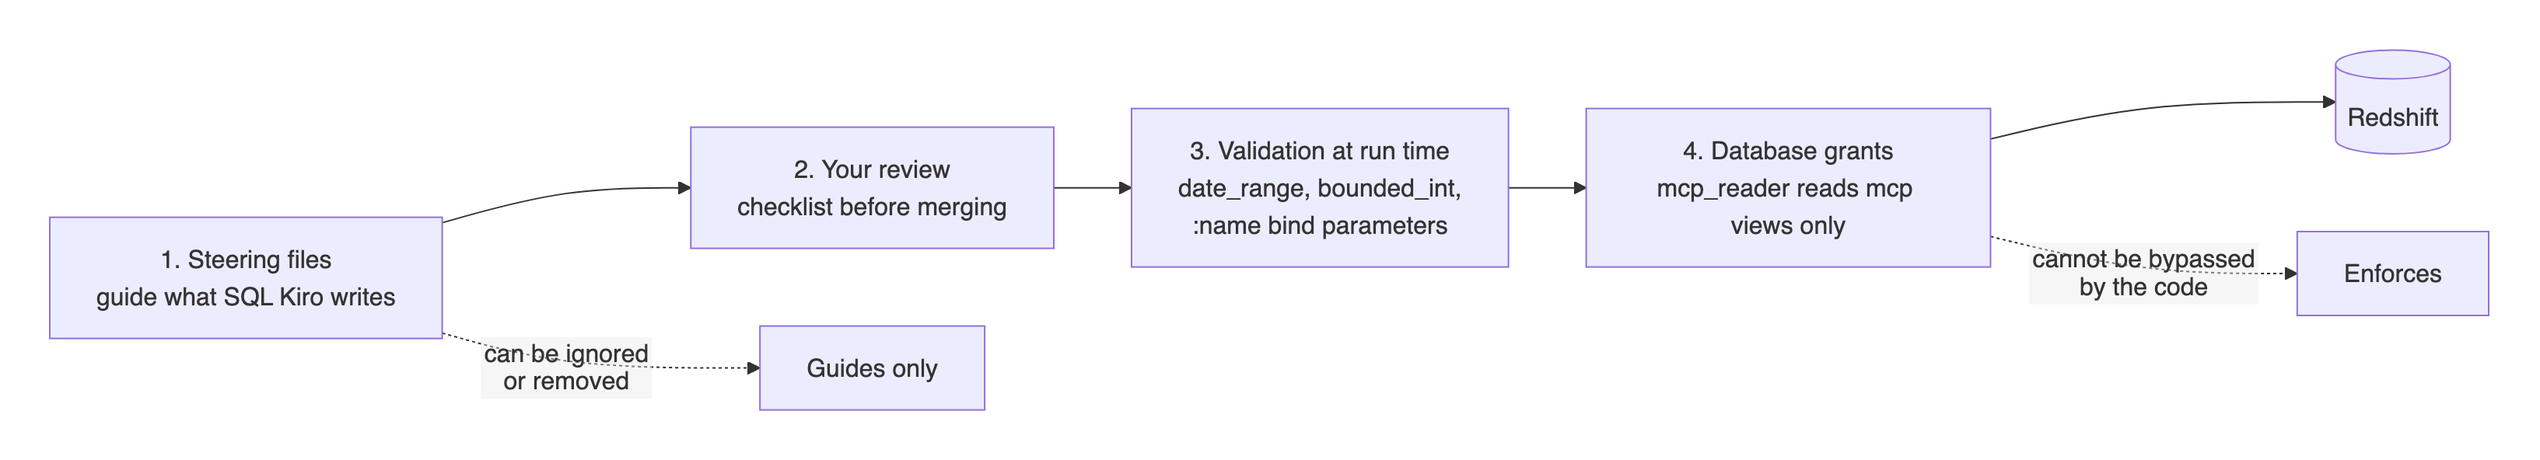
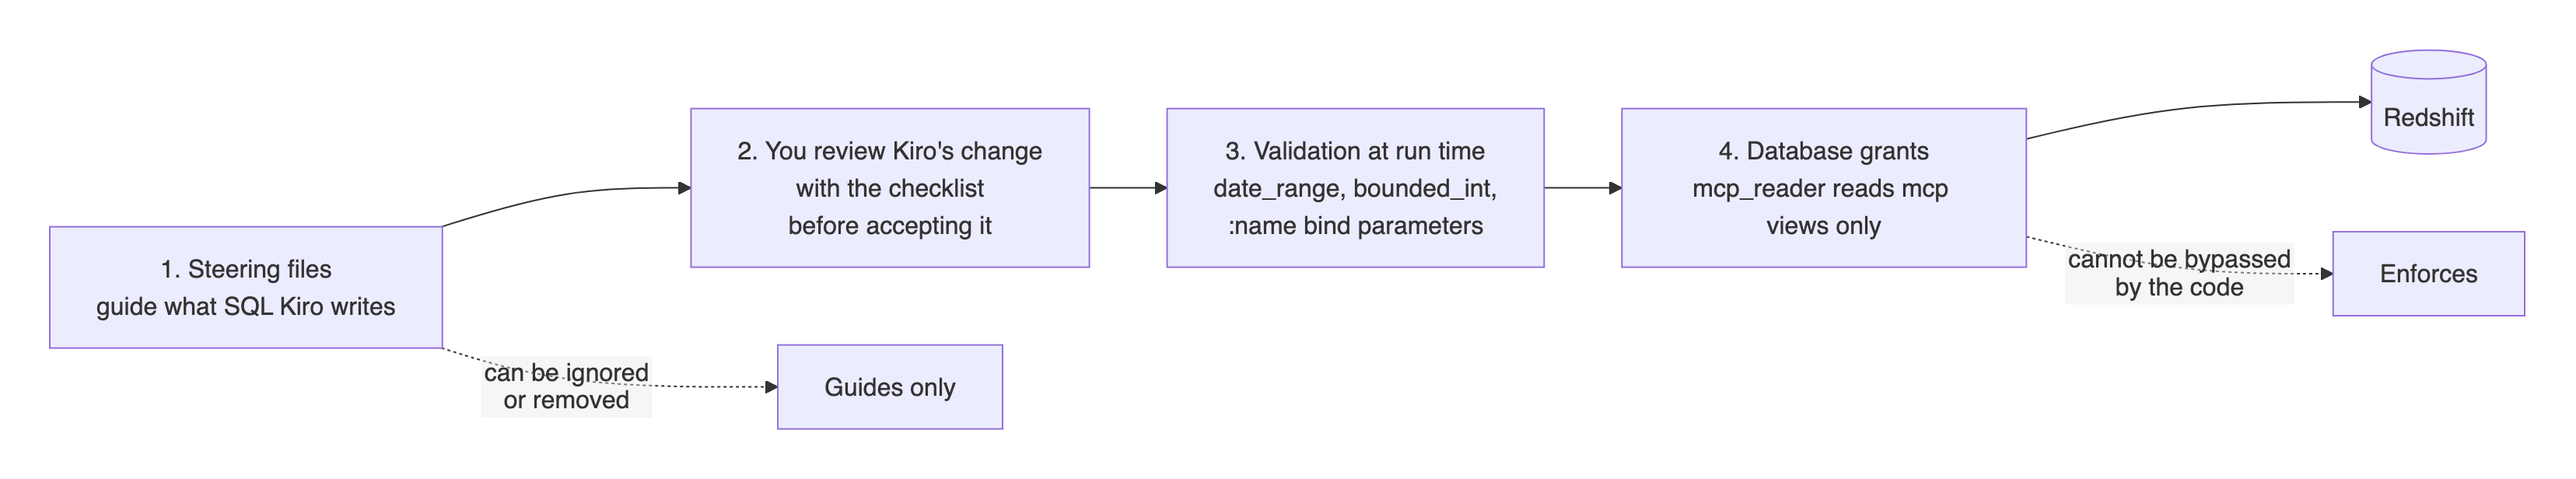
Fix render_diagrams.py deleting page content; restore M04; explain defence in depth
render_diagrams.py matched an existing 'Open full size' line with .*
under re.S, which also matched the rest of the page. Pages rendered a
second time lost everything after their diagram: M04 lost 'Why
stateless', Key concepts and Checkpoint (restored). Match one line
only; verified two full runs change nothing.

M02: explain each defence layer and how the database enforces
mcp_reader (role, IAM role mapping, no password); reword step 2.

diff --git a/render_diagrams.py b/render_diagrams.py
@@ -33,7 +33,8 @@ SKIP_DIRS = {".venv", "node_modules", "cdk.out", "_site", "_site_src"}
 SCALE = 2          # PNG pixel density
 PAD = 24           # white margin around the diagram, in CSS pixels
 
-BLOCK = re.compile(r"^( *)```mermaid\n(.*?)^\1```\n(?:\n?\1Open full size: .*\n)?", re.M | re.S)
+# The optional link line uses [^\n]*, not .*: with re.S, .* would also match the rest of the file.
+BLOCK = re.compile(r"^( *)```mermaid\n(.*?)^\1```\n(?:\n?\1Open full size: [^\n]*\n)?", re.M | re.S)
 
 
 def mermaid_js() -> Path:

diff --git a/AWS-001-AgenticFromScratch/day1/02-redshift-tools.md b/AWS-001-AgenticFromScratch/day1/02-redshift-tools.md
@@ -19,7 +19,7 @@ Four layers stand between a question and the data. Each one catches what the one
 
 ```mermaid
 flowchart LR
-    A["1. Steering files<br/>guide what SQL Kiro writes"] --> B["2. Your review<br/>checklist before merging"]
+    A["1. Steering files<br/>guide what SQL Kiro writes"] --> B["2. You review Kiro's change<br/>with the checklist<br/>before accepting it"]
     B --> C["3. Validation at run time<br/>date_range, bounded_int,<br/>:name bind parameters"]
     C --> D["4. Database grants<br/>mcp_reader reads mcp views only"]
     D --> E[("Redshift")]
@@ -28,6 +28,17 @@ flowchart LR
 ```
 
 Open full size: [PNG](img/diagrams/02-redshift-tools-1.png) · [SVG](img/diagrams/02-redshift-tools-1.svg)
+
+| Layer | What it does | Where it lives |
+|---|---|---|
+| 1. Steering | Rules Kiro follows when it writes SQL: `mcp` views only, `:name` parameters, a `LIMIT`, no `SELECT *` | [`kiro/steering/sql-rules.md`](../kiro/steering/sql-rules.md), copied to `.kiro/steering/` in M01 |
+| 2. Your review | When Kiro proposes a change, you read it and accept it only if it passes the checklist | [Review checklist](../prework/python-reading-primer.md#checklist-reviewing-kiros-code) |
+| 3. Validation | Before any SQL runs, the tool checks its inputs (real dates, numbers in range) and sends values as bind parameters, never pasted into the SQL | `mcp-server/lib/validation.py`, `:name` parameters in each tool |
+| 4. Database grants | Redshift itself refuses anything beyond reading the `mcp` views | [`data/grants.sql`](../data/grants.sql), applied by the account setup |
+
+**How the database enforces layer 4.** The account setup creates a database role, `mcp_reader`, that may only `SELECT` from the `mcp` views: no base tables (`rst`), and no `INSERT`, `UPDATE`, `DELETE` or `DROP` anywhere. It then maps two AWS roles to it: the MCP server's role on ECS (`rst-mcp-task-<region>`) and the role you use on your laptop (`localDevRoleNames` in Prerequisites). When the server queries Redshift through the Data API, there is no database password: Redshift sees the caller as the database user `IAMR:<role name>` and gives it only `mcp_reader`'s rights. So even if bad SQL slipped past layers 1–3, a `DELETE` or a read of a base table fails with **permission denied**. Step 5 below shows it.
+
+Layers 1 and 2 *guide*: they can be skipped or missed. Layer 4 *enforces*: no code can talk its way past it.
 
 ## What happens when a tool runs
 

diff --git a/AWS-001-AgenticFromScratch/day1/04-go-remote.md b/AWS-001-AgenticFromScratch/day1/04-go-remote.md
@@ -52,3 +52,13 @@ flowchart LR
 ```
 
 Open full size: [PNG](img/diagrams/04-go-remote-1.png) · [SVG](img/diagrams/04-go-remote-1.svg)
+
+**Why stateless:** the load balancer may send each request to a different task. With `stateless_http=True` no task keeps session state, so any task can answer any request and no sticky sessions are needed.
+
+## Key concepts
+- **Stateless:** each request independent → any ECS task can serve it, no sticky sessions. AgentCore Runtime (Day 2) also expects this.
+- **JSON responses:** no long-lived SSE streams, which keeps ALB and CloudFront simple.
+- **No auth yet:** anyone who can reach port 8000 can query Redshift. Fixed in M06.
+
+## Checkpoint
+HTTP server answers tool calls from Inspector and Kiro.
